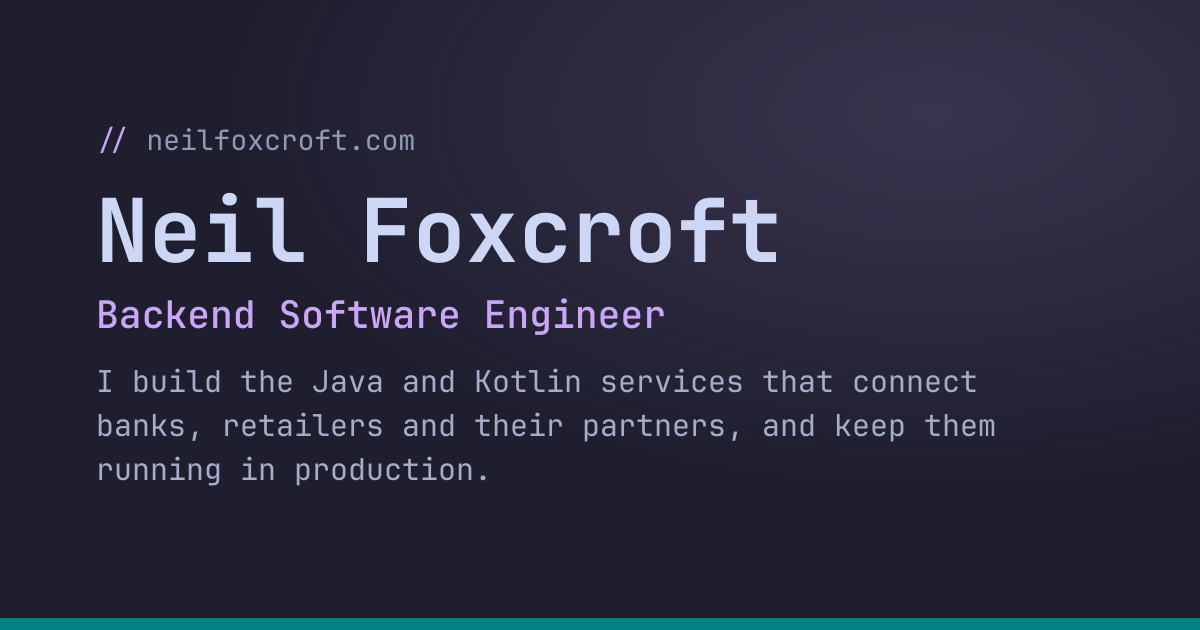
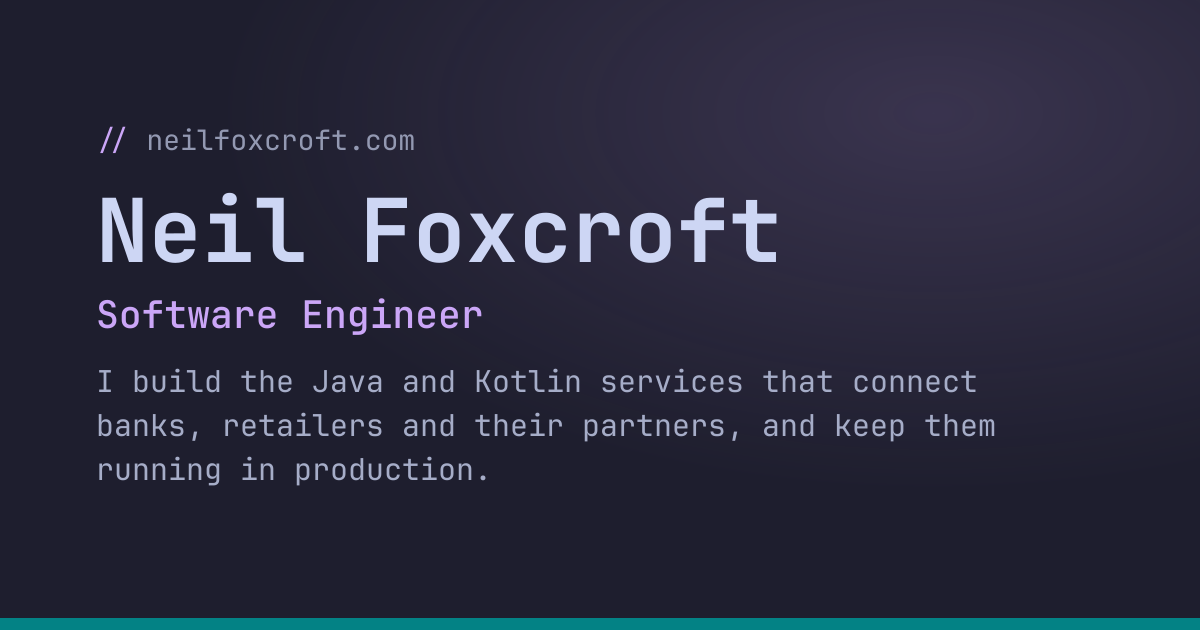
Header: Software Engineer, a bit of colour, location flag
- Title is now "Software Engineer" (no "Backend") in mauve, and the tab
  title, meta description, share-image alt text, README and the
  regenerated share image match
- The pitch colours "Java and Kotlin" teal and "banks, retailers and
  their partners" blue (marked **…** in resume.json, coloured by
  highlight() in format.ts; the share image strips the markers)
- A small drawn South African flag before Pretoria, and 🌍 before
  "open to relocation"

Changed region(s): [[0.0617, 0.4524, 0.555, 0.5429]]

diff --git a/src/lib/format.ts b/src/lib/format.ts
@@ -28,6 +28,15 @@ export function elevation(metres: number, units: Units): string {
   return units === 'metric' ? `${num(metres)} m` : `${num(metres * 3.28084)} ft`;
 }
 
+/** Escapes text and colours each **phrase**, taking the colour classes in turn. Used for the header pitch. */
+export function highlight(text: string, colours: string[]): string {
+  let i = 0;
+  return escapeHtml(text).replace(
+    /\*\*(.+?)\*\*/g,
+    (_, phrase: string) => `<span class="font-semibold ${colours[i++ % colours.length]}">${phrase}</span>`,
+  );
+}
+
 /** Escapes text and turns **name** into an emphasised span. Used for the About copy. */
 export function emphasise(text: string): string {
   return escapeHtml(text).replace(/\*\*(.+?)\*\*/g, '<span class="font-semibold text-heading">$1</span>');

diff --git a/docs/redesign/BRIEF.md b/docs/redesign/BRIEF.md
@@ -39,9 +39,9 @@ Replace the 2020 Create React App site (React 16, Bootstrap 4, class components)
 Two columns on desktop, max width ~1180px, stacked on mobile.
 
 **Left column (sticky on desktop, full viewport height):**
-- Name "Neil Foxcroft", title "Backend Software Engineer"
-- One-line pitch: "I build the Java and Kotlin services that connect banks, retailers and their partners, and keep them running in production."
-- "Pretoria, ZA · open to relocation"
+- Name "Neil Foxcroft", title **"Software Engineer"** (was "Backend Software Engineer"; Neil dropped "Backend" 2026-10-29), in mauve
+- One-line pitch: "I build the Java and Kotlin services that connect banks, retailers and their partners, and keep them running in production." **2026-10-29 (Neil asked for colour):** "Java and Kotlin" in teal and "banks, retailers and their partners" in blue, semibold (marked with `**…**` in resume.json, coloured by `highlight()` in format.ts).
+- "Pretoria, ZA · open to relocation", with a small drawn South African flag before Pretoria (flag emoji don't render on Windows) and 🌍 before "open to relocation" (2026-10-29).
 - Section nav: About / Experience / Projects / The PCT. Each item has a horizontal line that lengthens and brightens for the active section (scroll-spy). **Changed 2026-10-29 (Neil):** the lines are now little mountain ridges (elevation-style, a different made-up skyline per item, not the real PCT); half the ridge shows at rest and the whole ridge, in mauve, for the active section or on hover.
 - Icons: GitHub (github.com/neilfoxcroft), LinkedIn (linkedin.com/in/neilfoxcroft, corrected 2026-10-29), email (neilfoxcroftpro@gmail.com), and a résumé PDF link.
 
@@ -105,7 +105,7 @@ The site must be properly mobile friendly, not just "doesn't break". Build mobil
 - Responsive down to 360px (see **Mobile** above).
 - Accessibility: semantic sections, nav landmarks, visible focus states, AA contrast, `aria-label` on icon links, map has a text alternative.
 - Lighthouse 95+ across the board; no layout shift; fonts preloaded.
-- SEO and meta: title "Neil Foxcroft — Backend Software Engineer", description, Open Graph image, favicon. **Done 2026-10-29:** canonical URL, Open Graph and Twitter card tags; the icon is a mauve `//` mark on the dark background (favicon.svg, favicon.ico, apple-touch-icon.png); the 1200×630 share image shows the name, title and pitch with a PCT-teal bar along the bottom. All are generated by `scripts/make-icons.mjs` from resume.json. Also a "noindex" 404 page ("Off trail.") for S3 to use as its error page, plus robots.txt. Lighthouse (2026-10-29): 100/100/100/100 on mobile and desktop.
+- SEO and meta: title "Neil Foxcroft — Software Engineer" ("Backend" dropped 2026-10-29 to match the header; meta description, share-image alt text, README and og-image.png follow), description, Open Graph image, favicon. **Done 2026-10-29:** canonical URL, Open Graph and Twitter card tags; the icon is a mauve `//` mark on the dark background (favicon.svg, favicon.ico, apple-touch-icon.png); the 1200×630 share image shows the name, title and pitch with a PCT-teal bar along the bottom. All are generated by `scripts/make-icons.mjs` from resume.json. Also a "noindex" 404 page ("Off trail.") for S3 to use as its error page, plus robots.txt. Lighthouse (2026-10-29): 100/100/100/100 on mobile and desktop.
 - Replace the old résumé at `public/files/NeilFoxcroftResume.pdf` with the current one. **Done 2026-10-29** with Neil's Reactive Resume export; he will restyle it to match the site later.
 - A proper `README.md` for the public repo: what it is, stack, local dev, how content is edited (the data file), deploy.
 

diff --git a/README.md b/README.md
@@ -1,6 +1,6 @@
 # neilfoxcroft.com
 
-Source for [neilfoxcroft.com](https://neilfoxcroft.com), the personal site of Neil Foxcroft, a backend software engineer working with Java, Kotlin and Spring Boot.
+Source for [neilfoxcroft.com](https://neilfoxcroft.com), the personal site of Neil Foxcroft, a software engineer working with Java, Kotlin and Spring Boot.
 
 It's a single static page: about, experience, education, projects, and an interactive map of my Pacific Crest Trail thru-hike.
 
